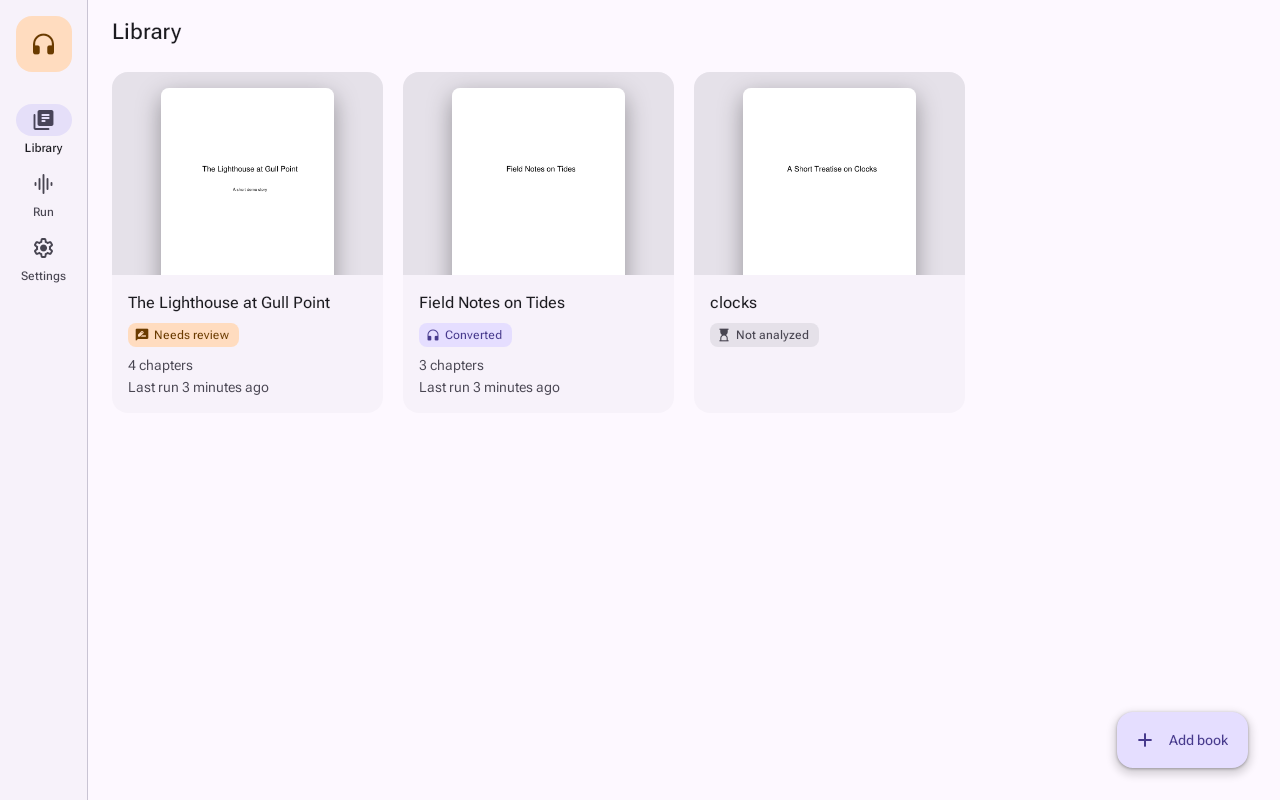
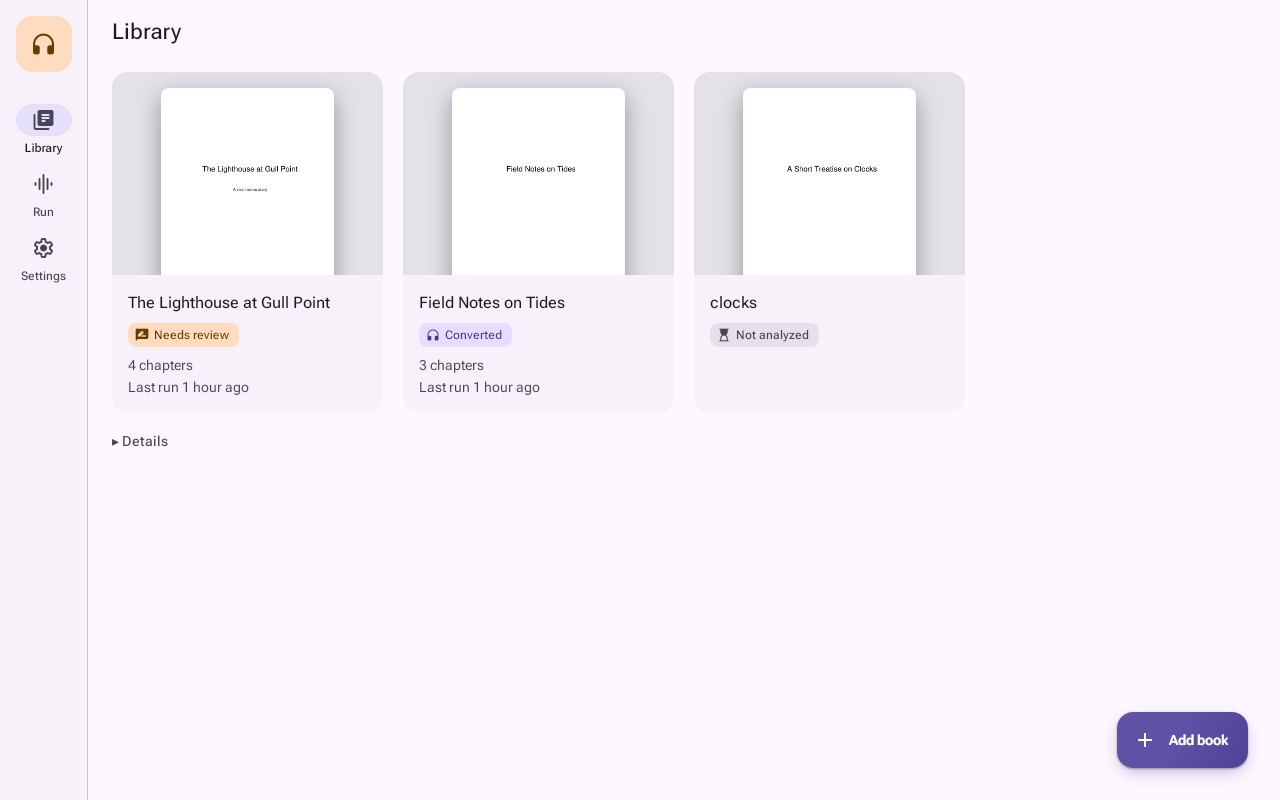
feat(desktop): give the main buttons a gradient, glow and lift

diff --git a/desktop/src/ui/buttons.css b/desktop/src/ui/buttons.css
@@ -1,0 +1,141 @@
+/* Accent styling for the app's buttons (spec D11.i): the main actions carry the palette's
+ * iris-to-amber gradient with a coloured glow; tonal buttons get a highlight edge and an amber
+ * icon. Everything is built from the generated --md-sys-color-* tokens. Labels stay on-primary
+ * across the whole gradient; contrast.test.ts checks both ends in both themes. */
+
+/* Dark themes end the gradient in amber; light themes in deep indigo, since a light-theme
+ * amber dark enough to carry white text turns brown beside the iris. */
+:root {
+  --app-accent-end: var(--md-sys-color-tertiary);
+}
+
+:root[data-theme="light"] {
+  --app-accent-end: var(--md-sys-color-on-primary-container);
+}
+
+@media (prefers-color-scheme: light) {
+  :root[data-theme="system"] {
+    --app-accent-end: var(--md-sys-color-on-primary-container);
+  }
+}
+
+:root {
+  --app-accent-gradient: linear-gradient(
+    120deg,
+    var(--md-sys-color-primary) 0%,
+    var(--md-sys-color-primary) 40%,
+    var(--app-accent-end) 135%
+  );
+  --app-accent-glow: color-mix(in srgb, var(--md-sys-color-primary) 45%, transparent);
+  --app-accent-glow-strong: color-mix(in srgb, var(--md-sys-color-primary) 60%, transparent);
+  --app-press-scale: 0.97;
+}
+
+/* Main actions: filled buttons and the FAB. The container is transparent, so the gradient on
+ * the element itself shows through; Material's own state layers and ripple still draw on top. */
+md-filled-button,
+md-fab {
+  --md-filled-button-container-color: transparent;
+  --md-filled-button-label-text-color: var(--md-sys-color-on-primary);
+  --md-filled-button-hover-label-text-color: var(--md-sys-color-on-primary);
+  --md-filled-button-focus-label-text-color: var(--md-sys-color-on-primary);
+  --md-filled-button-pressed-label-text-color: var(--md-sys-color-on-primary);
+  --md-filled-button-icon-color: var(--md-sys-color-on-primary);
+  --md-filled-button-hover-icon-color: var(--md-sys-color-on-primary);
+  --md-filled-button-focus-icon-color: var(--md-sys-color-on-primary);
+  --md-filled-button-pressed-icon-color: var(--md-sys-color-on-primary);
+  --md-filled-button-label-text-weight: 600;
+  --md-filled-button-container-elevation: 0;
+  --md-filled-button-hover-container-elevation: 0;
+  --md-filled-button-focus-container-elevation: 0;
+  --md-filled-button-pressed-container-elevation: 0;
+
+  --md-fab-container-color: transparent;
+  --md-fab-primary-container-color: transparent;
+  --md-fab-primary-icon-color: var(--md-sys-color-on-primary);
+  --md-fab-primary-label-text-color: var(--md-sys-color-on-primary);
+  --md-fab-primary-hover-icon-color: var(--md-sys-color-on-primary);
+  --md-fab-primary-hover-label-text-color: var(--md-sys-color-on-primary);
+  --md-fab-primary-focus-icon-color: var(--md-sys-color-on-primary);
+  --md-fab-primary-focus-label-text-color: var(--md-sys-color-on-primary);
+  --md-fab-primary-pressed-icon-color: var(--md-sys-color-on-primary);
+  --md-fab-primary-pressed-label-text-color: var(--md-sys-color-on-primary);
+  --md-fab-label-text-weight: 600;
+  --md-fab-container-shape: var(--md-sys-shape-corner-large);
+  --md-fab-container-elevation: 0;
+  --md-fab-hover-container-elevation: 0;
+  --md-fab-focus-container-elevation: 0;
+  --md-fab-pressed-container-elevation: 0;
+
+  background-image: var(--app-accent-gradient);
+  box-shadow:
+    0 1px 2px rgb(0 0 0 / 30%),
+    0 6px 18px -4px var(--app-accent-glow);
+  transition:
+    transform var(--md-sys-motion-duration-short) var(--md-sys-motion-easing-standard),
+    box-shadow var(--md-sys-motion-duration-short) var(--md-sys-motion-easing-standard);
+}
+
+md-filled-button {
+  border-radius: var(--md-sys-shape-corner-full);
+}
+
+md-fab {
+  border-radius: var(--md-sys-shape-corner-large);
+}
+
+md-filled-button:hover,
+md-fab:hover {
+  transform: translateY(-1px);
+  box-shadow:
+    0 2px 4px rgb(0 0 0 / 30%),
+    0 12px 28px -6px var(--app-accent-glow-strong);
+}
+
+md-filled-button:active,
+md-fab:active {
+  transform: scale(var(--app-press-scale));
+  box-shadow:
+    0 1px 2px rgb(0 0 0 / 30%),
+    0 4px 10px -4px var(--app-accent-glow);
+}
+
+md-filled-button[disabled] {
+  background-image: none;
+  box-shadow: none;
+  transform: none;
+}
+
+/* Tonal buttons: a soft highlight edge, an amber icon, and the same lift on hover. */
+md-filled-tonal-button {
+  --md-filled-tonal-button-label-text-weight: 600;
+  --md-filled-tonal-button-icon-color: var(--md-sys-color-tertiary);
+  --md-filled-tonal-button-hover-icon-color: var(--md-sys-color-tertiary);
+  --md-filled-tonal-button-focus-icon-color: var(--md-sys-color-tertiary);
+  --md-filled-tonal-button-pressed-icon-color: var(--md-sys-color-tertiary);
+
+  border-radius: var(--md-sys-shape-corner-full);
+  box-shadow:
+    inset 0 1px 0 color-mix(in srgb, var(--md-sys-color-on-secondary-container) 14%, transparent),
+    0 1px 2px rgb(0 0 0 / 20%);
+  transition:
+    transform var(--md-sys-motion-duration-short) var(--md-sys-motion-easing-standard),
+    box-shadow var(--md-sys-motion-duration-short) var(--md-sys-motion-easing-standard);
+}
+
+md-filled-tonal-button:hover {
+  transform: translateY(-1px);
+  box-shadow:
+    inset 0 1px 0 color-mix(in srgb, var(--md-sys-color-on-secondary-container) 20%, transparent),
+    0 6px 16px -6px rgb(0 0 0 / 45%);
+}
+
+md-filled-tonal-button:active {
+  transform: scale(var(--app-press-scale));
+}
+
+/* Icon buttons tint toward the primary colour on hover. */
+md-icon-button {
+  --md-icon-button-hover-icon-color: var(--md-sys-color-primary);
+  --md-icon-button-hover-state-layer-color: var(--md-sys-color-primary);
+}

diff --git a/desktop/src/theme/contrast.test.ts b/desktop/src/theme/contrast.test.ts
@@ -37,6 +37,10 @@ const TEXT: Array<[Role, Role]> = [
   ["onErrorContainer", "errorContainer"],
   ["inverseOnSurface", "inverseSurface"],
   ["onBackground", "background"],
+  // Accent buttons (buttons.css): the label sits on a gradient from primary to amber (dark
+  // themes) or deep indigo (light themes); both ends are checked in both themes.
+  ["onPrimary", "tertiary"],
+  ["onPrimary", "onPrimaryContainer"],
   ...SURFACES.flatMap((surface): Array<[Role, Role]> => [
     ["onSurface", surface],
     ["onSurfaceVariant", surface],
@@ -50,6 +54,8 @@ const GRAPHICS: Array<[Role, Role]> = [
   ...SURFACES.map((surface): [Role, Role] => ["tertiary", surface]),
   ...SURFACES.map((surface): [Role, Role] => ["error", surface]),
   ["inversePrimary", "inverseSurface"],
+  // Tonal buttons (buttons.css) draw their icon in amber.
+  ["tertiary", "secondaryContainer"],
 ];
 
 describe.each([

diff --git a/desktop/src/ui/Button.tsx b/desktop/src/ui/Button.tsx
@@ -2,6 +2,7 @@ import "@material/web/button/filled-button.js";
 import "@material/web/button/filled-tonal-button.js";
 import "@material/web/button/outlined-button.js";
 import "@material/web/button/text-button.js";
+import "./buttons.css";
 import { type ReactNode, useRef } from "react";
 import { Icon } from "./Icon";
 import type { IconName } from "../theme/icons.generated";

diff --git a/desktop/src/ui/IconButton.tsx b/desktop/src/ui/IconButton.tsx
@@ -1,6 +1,7 @@
 import "@material/web/iconbutton/icon-button.js";
 import "@material/web/iconbutton/filled-icon-button.js";
 import "@material/web/iconbutton/filled-tonal-icon-button.js";
+import "./buttons.css";
 import { useRef } from "react";
 import { Icon } from "./Icon";
 import type { IconName } from "../theme/icons.generated";

diff --git a/desktop/src/ui/Fab.tsx b/desktop/src/ui/Fab.tsx
@@ -1,4 +1,5 @@
 import "@material/web/fab/fab.js";
+import "./buttons.css";
 import { useRef } from "react";
 import { Icon } from "./Icon";
 import type { IconName } from "../theme/icons.generated";

diff --git a/docs/PDF2AUDIOBOOK_TAURI_SPEC.md b/docs/PDF2AUDIOBOOK_TAURI_SPEC.md
@@ -319,6 +319,13 @@ The app should look polished, modern and professional, built on Google's
 - **D11.h Review.** Before a screen counts as done, its screenshots in dark and light mode
   are attached to its TODO item, and the owner reviews the first two screens (Setup and
   Library) before the rest are built.
+- **D11.i Accent buttons.** At the owner's request (2026-11-14, after reviewing the first two
+  screens), the main actions are more striking than stock Material 3: filled buttons and the FAB
+  carry a gradient from `primary` to amber `tertiary` (dark themes) or to `onPrimaryContainer`
+  (light themes, where an amber dark enough for white text turns brown), with a soft coloured
+  glow, a 1 px lift on hover and a slight press-in. Tonal buttons get a highlight edge and an
+  amber icon. Labels stay `onPrimary`; the contrast test checks both gradient ends in both
+  themes. Material's own state layers, ripple and focus ring are kept.
 
 ## 14. Owner decisions
 
